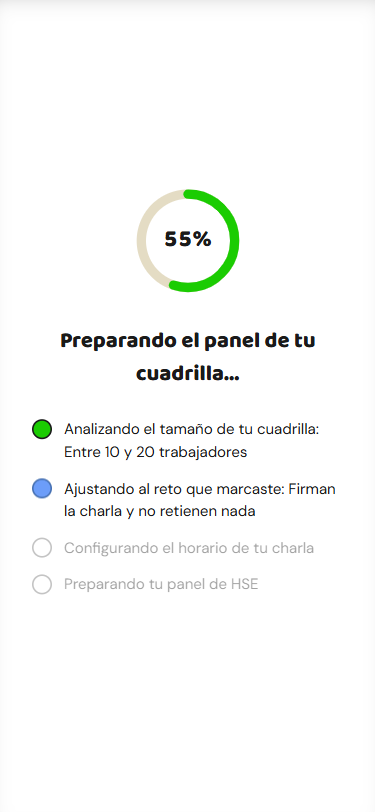
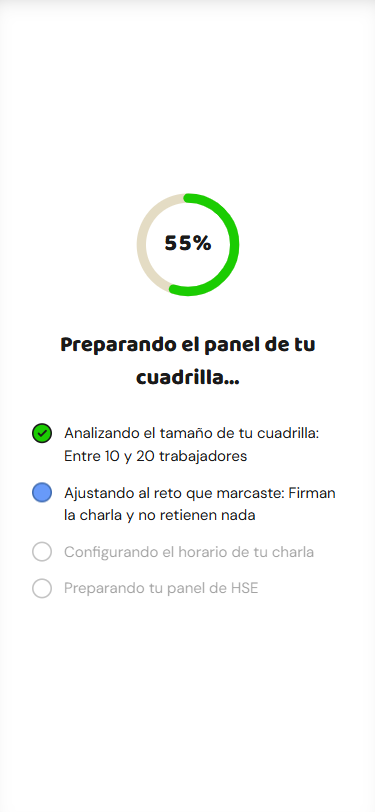
Sesion 4: corrige los 3 defectos de la ronda 7 en onboarding
El craft ya pasa el umbral (16/20); quedaba solo usabilidad por el
vacio muerto de centrar verticalmente cada paso. .onb-paso ancla el
contenido arriba (justify-content:flex-start) en vez de centrarlo,
dejando el loading (paso 5) como unica pantalla centrada por ser
transitoria. El paso 4 (horario) usaba el encabezado verde, reservado
a logro/accion principal en FICHA-ARTE, para una pregunta informativa
-> pasa a azul como el paso 1. Las lineas completadas del loading
ahora muestran un check SVG, no solo el cambio de color.

diff --git a/onboarding.html b/onboarding.html
@@ -55,9 +55,10 @@
   /* ===== ESCENARIO DE PASOS ===== */
   .onb-stage { position: relative; flex: 1; background: var(--surface); box-shadow: inset 0 10px 24px -18px rgb(26 26 26 / 0.35); }
   .onb-paso {
-    position: absolute; inset: 0; padding: 24px 16px; display: flex; flex-direction: column;
-    justify-content: center; opacity: 0; transform: translateX(40px); pointer-events: none; visibility: hidden;
+    position: absolute; inset: 0; padding: 32px 16px 24px; display: flex; flex-direction: column;
+    justify-content: flex-start; opacity: 0; transform: translateX(40px); pointer-events: none; visibility: hidden;
   }
+  .onb-paso[data-paso="5"] { justify-content: center; }
   .js-motion .onb-paso { transition: opacity 300ms ease, transform 300ms ease; }
   .onb-paso.activo { opacity: 1; transform: translateX(0); pointer-events: auto; visibility: visible; }
   .onb-paso.saliendo-izq { opacity: 0; transform: translateX(-24px); }
@@ -153,8 +154,10 @@
   .onb-linea.vista { opacity: 1; }
   .onb-linea .marca { width: 20px; height: 20px; border-radius: 999px; flex-shrink: 0; margin-top: 1px;
                        border: 2px solid var(--ink-2); display: flex; align-items: center; justify-content: center; }
+  .onb-linea .marca svg { width: 11px; height: 11px; opacity: 0; }
   .onb-linea.activa .marca { border-color: var(--azul-sombra); background: var(--azul); animation: pulso 1s ease-in-out infinite; }
   .onb-linea.completa .marca { border-color: var(--ink); background: var(--verde); }
+  .onb-linea.completa .marca svg { opacity: 1; }
   .js-motion .onb-linea .marca { transition: background 150ms ease, border-color 150ms ease; }
   @keyframes pulso { 0%, 100% { opacity: 1; } 50% { opacity: 0.5; } }
   @media (prefers-reduced-motion: reduce) { .onb-linea.activa .marca { animation: none; } }
@@ -256,8 +259,8 @@
 
   <!-- PASO 4 -->
   <section class="onb-paso" data-paso="4">
-    <div class="onb-encabezado verde">
-      <span class="onb-icono verde"><svg width="26" height="26" viewBox="0 0 24 24" fill="none" stroke="#1a1a1a" stroke-width="2.2" stroke-linecap="round" stroke-linejoin="round"><circle cx="12" cy="12" r="10"/><path d="M12 6v6l4 2"/></svg></span>
+    <div class="onb-encabezado azul">
+      <span class="onb-icono azul"><svg width="26" height="26" viewBox="0 0 24 24" fill="none" stroke="#fff" stroke-width="2.2" stroke-linecap="round" stroke-linejoin="round"><circle cx="12" cy="12" r="10"/><path d="M12 6v6l4 2"/></svg></span>
       <h1 class="onb-pregunta">¿A qué hora es la charla antes del turno?</h1>
       <p class="onb-micro">Te avisamos justo antes, para que el reto se haga ahí mismo.</p>
     </div>
@@ -290,10 +293,10 @@
       </div>
       <h2>Preparando el panel de tu cuadrilla…</h2>
       <div class="onb-lineas" id="onbLineas">
-        <div class="onb-linea" data-linea="1"><span class="marca"></span><span class="txt">Analizando el tamaño de tu cuadrilla</span></div>
-        <div class="onb-linea" data-linea="2"><span class="marca"></span><span class="txt">Ajustando al reto que marcaste</span></div>
-        <div class="onb-linea" data-linea="3"><span class="marca"></span><span class="txt">Configurando el horario de tu charla</span></div>
-        <div class="onb-linea" data-linea="4"><span class="marca"></span><span class="txt">Preparando tu panel de HSE</span></div>
+        <div class="onb-linea" data-linea="1"><span class="marca"><svg viewBox="0 0 24 24" fill="none" stroke="#1a1a1a" stroke-width="4" stroke-linecap="round" stroke-linejoin="round"><path d="M20 6 9 17l-5-5"/></svg></span><span class="txt">Analizando el tamaño de tu cuadrilla</span></div>
+        <div class="onb-linea" data-linea="2"><span class="marca"><svg viewBox="0 0 24 24" fill="none" stroke="#1a1a1a" stroke-width="4" stroke-linecap="round" stroke-linejoin="round"><path d="M20 6 9 17l-5-5"/></svg></span><span class="txt">Ajustando al reto que marcaste</span></div>
+        <div class="onb-linea" data-linea="3"><span class="marca"><svg viewBox="0 0 24 24" fill="none" stroke="#1a1a1a" stroke-width="4" stroke-linecap="round" stroke-linejoin="round"><path d="M20 6 9 17l-5-5"/></svg></span><span class="txt">Configurando el horario de tu charla</span></div>
+        <div class="onb-linea" data-linea="4"><span class="marca"><svg viewBox="0 0 24 24" fill="none" stroke="#1a1a1a" stroke-width="4" stroke-linecap="round" stroke-linejoin="round"><path d="M20 6 9 17l-5-5"/></svg></span><span class="txt">Preparando tu panel de HSE</span></div>
       </div>
     </div>
   </section>

diff --git a/ESTADO.md b/ESTADO.md
@@ -1,7 +1,7 @@
 # ESTADO — HSE Master App
 Última actualización: 2026-10-17 | Sesión actual: 4
 
-⏸ CHECKPOINT — Sesión 4 (onboarding, paywall, login), ronda 6 de revisión YA ENTREGADA para ambas y YA CORREGIDA (sin relanzar ronda 7 todavía). Onboarding ronda 6: usabilidad 33/40 (sube de 28), craft 14/20. Paywall ronda 6: usabilidad 31/40, craft 14/20, copy 17/20. Defectos de la ronda 6 ya corregidos — onboarding: cada pregunta (pasos 1/2/4) ahora vive dentro de un bloque de color real (`.onb-encabezado`, tinte 16% del color del paso + borde grueso) en vez de solo un ícono flotando sobre blanco — así se nota de verdad el mandato de FICHA-ARTE de "bloques grandes, llamativos y coloridos"; el hueco muerto entre el texto del reconocimiento y "Continuar" se cerró quitando el `flex:1`+`margin-top:auto` que los separaba a propósito; la barra de progreso vuelve a bajar al presionar "Atrás" (se quitó el `Math.max` que la clavaba en el punto más alto — coincide con la heurística de "estado del sistema visible" de Nielsen, por encima de la idea original de "progreso que nunca retrocede"); se documentó en FICHA-ARTE que hay 2 mecánicas de elevación a propósito (botón presionable = acción que avanza; sombra de tarjeta = opción que se elige), no una inconsistencia. Paywall: el "back" del header pasó de flotar solo a la derecha (se leía como un botón de cerrar) a ir pegado al logo a la izquierda, igual que el patrón ya establecido en onboarding; se agregó una segunda cinta de peligro (el mismo motivo ya usado en landing.html) al borde izquierdo de la tarjeta Anual, como segundo detalle propio más allá del casco; se consolidaron 7 tamaños de fuente distintos a 4 familias reales (28/22/14/12px); el nombre de la cuadrilla en el titular pasó de interpolar el string crudo del chip a una tabla de 3 etiquetas cortas predefinidas (nunca desborda el h1). Próximo paso: commitear y relanzar la ronda 7 de ambas.
+⏸ CHECKPOINT — Sesión 4 (onboarding, paywall), ronda 7 de onboarding YA ENTREGADA y YA CORREGIDA (sin relanzar ronda 8 todavía); paywall ronda 7 sigue en segundo plano. Onboarding ronda 7: usabilidad 29/40, craft 16/20 — el craft YA PASA el umbral (≥16/20); el bloqueo es solo usabilidad, por el vacío muerto sistemático de centrar verticalmente cada paso en una pantalla alta. Defectos de la ronda 7 ya corregidos: `.onb-paso` pasó de `justify-content:center` a `flex-start` con el contenido anclado arriba (solo el paso 5 de loading se deja centrado, por ser una pantalla transitoria tipo spinner) — reduce a la mitad el aire muerto en vez de repartirlo arriba y abajo; el paso 4 (horario) usaba el encabezado verde (reservado en FICHA-ARTE a "logro/acción principal") para una pregunta informativa → pasó a azul, igual que el paso 1; las líneas "completa" del loading ahora muestran un check SVG dentro del círculo verde, no solo el cambio de color. Próximo paso: cuando llegue el veredicto de paywall ronda 7, corregirlo, commitear ambos y relanzar la ronda 8.
 veredicto:landing — 24 rondas de revisión independiente corregidas con mejora real y medible (usabilidad 27→30, craft 12-14 oscilando). Sigue NO LISTA. Las correcciones restantes que el revisor pide (bajar de 4 a 2 acentos de color en toda la pantalla, variar el gesto de botón, rotar el amarillo más allá de lo que preserva "gold") chocan con decisiones ya aprobadas por el usuario (FICHA-ARTE.md, cosa juzgada) — documentadas abajo como razonadas, no pendientes sueltas. El único camino para subir más el puntaje de craft/identidad es que el USUARIO decida si quiere tocar esas decisiones aprobadas, no que el agente seguro siga iterando solo. defecto "cero estados de error en el funnel" sigue DELIBERADAMENTE sin resolver: no hay backend/checkout real todavía (Sesión 6, cualquier error sería fabricado). El footer legal ya NO dice "(pendiente)" con jerga interna (corregido en ronda 19 → "(próximamente)", lenguaje de cliente) pero las 3 páginas legales siguen sin redactarse de verdad — eso se resuelve en la sesión aparte de este sistema (47-LEGAL-FISCAL-Y-PRIVACIDAD.md). La promesa de "reembolso de 7 días" se QUITÓ de la landing (ronda 23) hasta que exista FICHA-MERCADO.md con el plazo real verificado contra Hotmart — ninguno bloquea esta pantalla puntual.
 
 ## Qué es esta app (3 líneas máximo)
@@ -104,7 +104,7 @@ Plataforma móvil B2B de microaprendizaje gamificado (estilo Duolingo) para capa
   4. [Carrusel] El recálculo de flechas/puntos en cada evento de scroll no usa `requestAnimationFrame` — podría sentirse tosco en celulares de gama media bajo prueba real (nunca verificado en un dispositivo físico, solo en navegador de escritorio emulando 375px).
   5. [Método] El screenshot de evidencia es de página completa muy reescalada (360×8711) y no permite verificar encaje óptico fino — si se retoma el pulido, conviene agregar recortes a resolución nativa de las secciones clave.
   Las demás tensiones de fondo (paleta multicolor, gesto de botón, falta de testimonios, mailto sin backend, footer legal) siguen siendo decisiones razonadas y documentadas por separado abajo, no parte de esta lista.
-- veredicto:onboarding — 6 rondas de revisión independiente (30→31→32→28→28→33/40 usabilidad; craft 10→12→12→10→13→14/20). La ronda 6 subió ambos ejes (ver CHECKPOINT); sus 5 defectos ya se corrigieron, sin relanzar aún la ronda 7. docs/revisiones/onboarding-veredicto.md en disco es el de la ronda 6. No se declara lista hasta leer el veredicto de la ronda 7.
+- veredicto:onboarding — 7 rondas de revisión independiente (30→31→32→28→28→33→29/40 usabilidad; craft 10→12→12→10→13→14→16/20). El craft cruzó el umbral en la ronda 7; falta solo usabilidad (ver CHECKPOINT, fix de anclaje ya aplicado). docs/revisiones/onboarding-veredicto.md en disco es el de la ronda 7. No se declara lista hasta leer el veredicto de la ronda 8.
 - veredicto:paywall — 6 rondas de revisión independiente (31→35→35→32→31→31/40 usabilidad; craft 14→12→15→14→13→14/20; copy 17→16→17→16→17→17/20). La ronda 6 marcó defectos de identidad/jerarquía tipográfica/orientación del ícono de volver (ver CHECKPOINT), ya corregidos sin relanzar aún la ronda 7. docs/revisiones/paywall-veredicto.md en disco es el de la ronda 6. No se declara lista hasta leer el veredicto de la ronda 7.
 - cinco-opciones-reto-onboarding — RESUELTO en la ronda 4: la pregunta "¿cuál es tu reto más urgente?" tenía 5 chips de igual peso (4 dolores reales + "Otra cosa"), sobre el límite genérico de 4 del gate de carga cognitiva. En vez de solo documentar la tensión (como se hizo en rondas 1-3), se bajó "Otra cosa" a un enlace de texto secundario debajo de los 4 chips reales — conserva el escape hatch obligatorio de `50-DISENO-ONBOARDING-PAYWALL.md` → A2 ("el último ítem SIEMPRE es 'Otra cosa'") sin que compita en peso visual con los 4 dolores reales de FICHA-AVATAR.md. Los 4 chips siguen intactos (ninguno es relleno).
 - identidad-visual-duolingo (onboarding) — la ronda 1 marcó que el onboarding (tipografía chunky + bordes gruesos + botón presionable + amarillo/multicolor) se lee como el mismo lenguaje de Duolingo. Es la MISMA tensión ya documentada y cerrada para la landing (`gesto-boton-duolingo`, `forma-boton-duolingo`, `multicolor-60-30-10` abajo) — el onboarding reutiliza a propósito el mismo sistema visual de FICHA-ARTE.md (consistencia entre pantallas de la misma app), así que no es un hallazgo nuevo ni se redecide aquí: aplica la misma decisión razonada ya tomada para la landing.

diff --git a/docs/revisiones/onboarding-veredicto.md b/docs/revisiones/onboarding-veredicto.md
@@ -1,14 +1,12 @@
 # VEREDICTO revisor-visual — onboarding
 Fecha: 2026-10-17 00:00
-Screenshot: docs/revisiones/onboarding-375.png (+ onboarding-375-b.png paso 3, onboarding-375-c.png paso 5)
-Usabilidad: 33/40
-Craft: 14/20
+Screenshot: docs/revisiones/onboarding-375.png
+Usabilidad: 29/40
+Craft: 16/20
 Copy (si vende): N-A
 Fidelidad (si hubo referencia): N-A
 Veredicto: NO LISTA
 Top defectos:
-1. [Paso 1 y paso 3 — onboarding-375.png y onboarding-375-b.png] FICHA-ARTE.md (líneas 4 y 10) documenta el mandato explícito del usuario de ir a "bloques grandes, llamativos y coloridos" estilo Duolingo, pero el render real es un plano blanco/crema con un solo ícono de 56-72px de color por pantalla — la proporción de color útil es mínima y no se lee como "bloques grandes". Fix: agrandar el bloque de ícono/ilustración o sumar una superficie de color parcial detrás del contenido (como hace Duolingo) para que el mandato de la ficha se note en el screenshot, no solo en el acento del CTA.
-2. [Paso 3 reconocimiento — onboarding-375-b.png, onboarding.html líneas 118-129 `.onb-reco` + línea 115 `.onb-boton-abajo`] Vacío muerto: entre el párrafo de reconocimiento y el botón "Continuar" fijo al fondo queda cerca de la mitad de la pantalla en blanco — nada ocupa ese espacio (ni dato, ni ilustración, ni cita). Fix: acercar el CTA al bloque de texto (quitar `margin-top:auto` y fijar un espaciado fijo mayor) o rellenar el hueco con un refuerzo visual.
-3. [Fondo global — onboarding.html líneas 27-34] Los gradientes radiales de profundidad (20%/12% de opacidad en las esquinas) son invisibles en el render a 375px — las tres pantallas se perciben como un plano blanco liso, sin el nivel "base con tinte" que pide el eje de profundidad de la rúbrica. Fix: subir la opacidad del gradiente o introducir un segundo tono de superficie detrás del `.onb-stage` para que la base se distinga del contenido elevado.
-4. [Barra de progreso — onboarding.html líneas 314-319, función `actualizarProgreso`] El porcentaje nunca retrocede (`progresoMaximo` se queda en el máximo alcanzado): si el usuario usa la flecha "atrás" y vuelve al paso 2, la barra sigue marcando el % del paso 3 aunque esté viendo el paso 2 — el indicador de progreso deja de reflejar dónde está el usuario realmente. Fix: mostrar el % del paso visible, o si se mantiene por diseño motivacional, dejarlo documentado en la ficha para que no se lea como un bug de estado.
-5. [Chips de selección vs. botón CTA — onboarding.html líneas 77-93 vs 108-115] Conviven dos mecánicas de elevación distintas sin una regla escrita: los `.onb-chip` usan sombra difusa tipo tarjeta (`box-shadow: 0 6px 0 -2px ..., 0 10px 20px ...`), mientras los `.onb-boton` y los botones del modal usan `border-bottom` sólido tipo "juego de mesa" (la mecánica "presionable" que la ficha describe para botones, línea 30). Puede ser una diferenciación intencional (selección vs. acción), pero no está aclarada en FICHA-ARTE.md como sí se hizo con la excepción del radio del badge del paywall. Fix: anotar en la ficha cuál mecánica aplica a cada tipo de componente, o unificarlas.
+1. [Pasos 1, 3 y 5 — pantalla completa] `.onb-paso` centra el contenido con `justify-content: center` (onboarding.html línea 57-60) sobre bloques de poco alto (icono+2 líneas en el paso 1; icono 72px+2 líneas en el paso 3; anillo+4 líneas en el paso 5), dejando ~35-50% de la pantalla como aire muerto arriba y abajo — visible de inmediato en docs/revisiones/onboarding-375.png, onboarding-375-b.png y onboarding-375-c.png. Contradice el núcleo de cierre ("CERO vacío muerto", doctrina 32 "la app nunca se enseña vacía"). Fix: anclar el bloque en el tercio superior (`justify-content: flex-start` + padding-top fijo) y sumar un elemento que ocupe el espacio sobrante (ilustración más grande, dato de contexto o apoyo visual), en vez de dejarlo flotando centrado en una pantalla vacía.
+2. [Paso 4, encabezado — onboarding.html línea 258] `.onb-encabezado verde` se usa para "¿A qué hora es la charla antes del turno?", una pregunta puramente informativa/de horario. FICHA-ARTE.md líneas 24-26 reserva el verde específicamente para "logro/acción principal" (el CTA de avanzar, los checks de competencias vigentes) y el azul para "navegación/información" — exactamente la categoría a la que pertenece esta pregunta (como el paso 1, que sí usa azul). Fix: cambiar `.onb-encabezado verde`/`.onb-icono verde` por `azul` en el paso 4, y dejar el verde únicamente en botones de acción y celebraciones reales.
+3. [Paso 5 — loading, onboarding.html líneas 150-158] Las 4 líneas de progreso distinguen "pendiente" (gris), "activa" (azul con pulso) y "completa" (verde) solo por el color de la marca circular, sin un glifo distinto dentro del círculo para el estado "completa" (ej. un check) — hoy el círculo completo es un relleno sólido igual de plano que el activo, y la única diferencia entre esos dos estados es el matiz exacto de color. Fix: agregar un ícono de check SVG dentro de `.marca` cuando `.completa`, para no depender solo del matiz.
